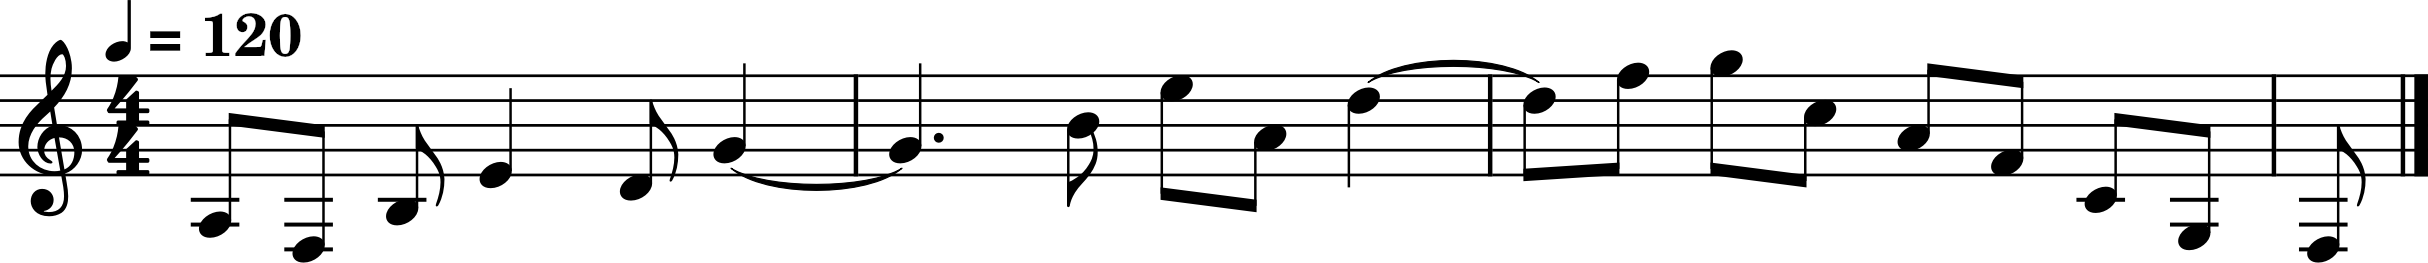
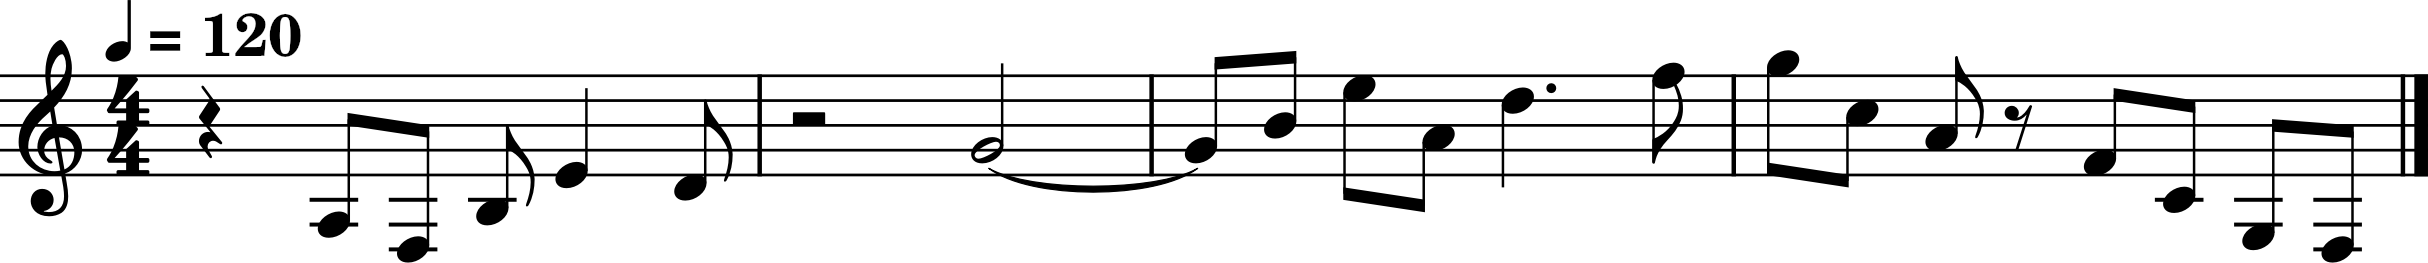
修复了五线谱无法显示休止符的bug

diff --git a/src/MusicRep/melody_sqeuence.py b/src/MusicRep/melody_sqeuence.py
@@ -265,19 +265,21 @@ class MelodySequence:
                     _append_event(current_pitch, current_duration_steps)
                 current_pitch = int(token)
                 current_duration_steps = 1
-
             # 延音
             elif token == MusicConfig.HOLD_VAL:
-                if current_pitch is not None:
-                    current_duration_steps += 1
-
+                current_duration_steps += 1
+                if current_pitch is None:
+                    current_pitch = 0
             # 休止
             else:
-                if current_pitch is not None:
+                if current_pitch is not None and current_pitch>1:
                     _append_event(current_pitch, current_duration_steps)
-                    current_pitch = None
-                    current_duration_steps = 0
-                # 把单独的休止留到结算时（不立即插入连续休止）
+                # 合并多个休止
+                if current_pitch != 0:
+                    current_pitch = 0
+                    current_duration_steps = 1
+                else:
+                    current_duration_steps += 1
 
         # 结算最后一个音
         if current_pitch is not None and current_duration_steps > 0:
